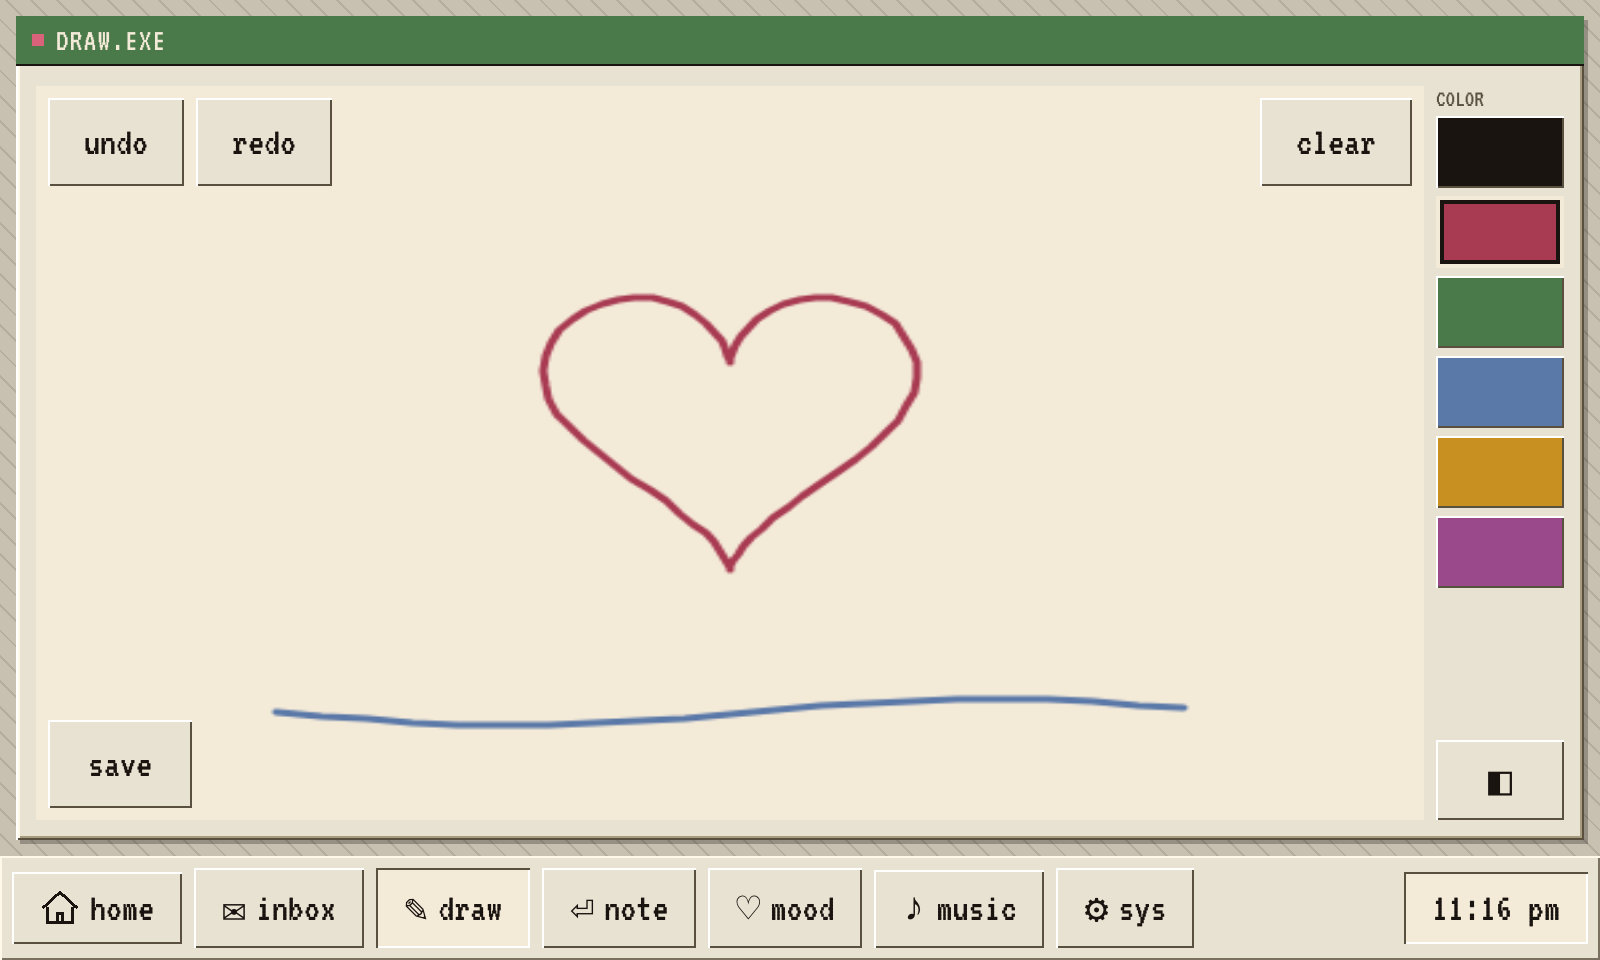
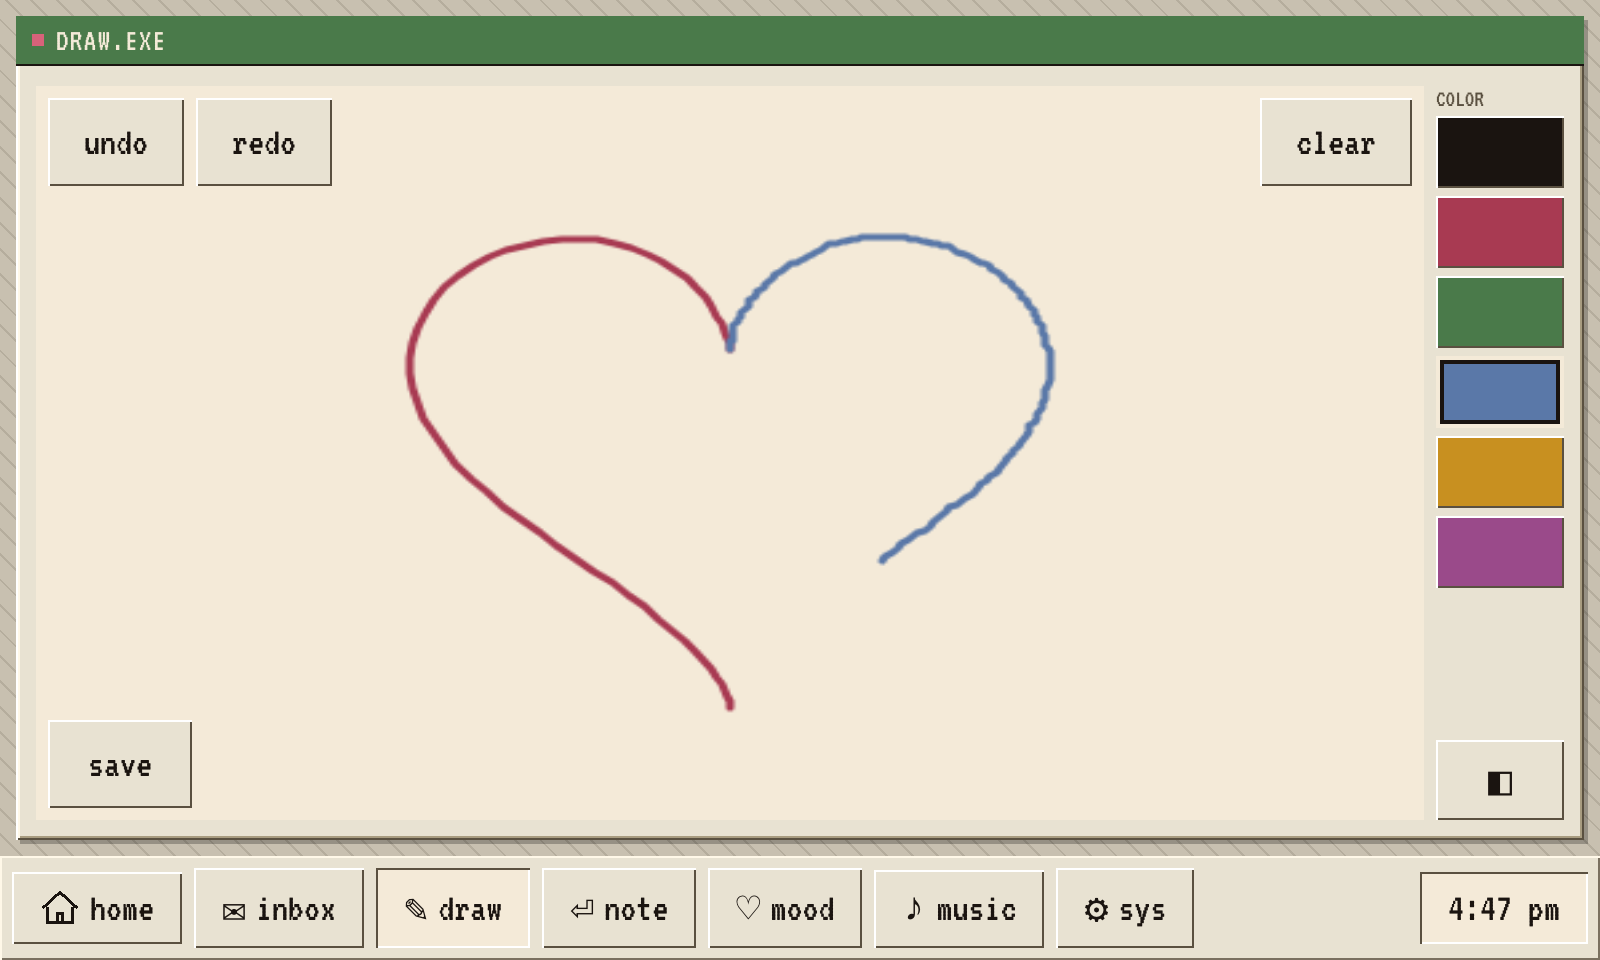
Set home to Montreal and regenerate home and draw screenshots
HOME is Lydia's box in Montreal (America/Toronto); Stanley stays in San
Francisco. The draw screenshot now shows a heart drawn by both of us, his half
in pink and hers in blue.

diff --git a/src/main.js b/src/main.js
@@ -106,7 +106,7 @@ const ASCII_DIGITS = {
 // Display names and the box's fixed home location. Edit for your own setup.
 const NAMES = { him: "stanley", her: "lydia" };
 const initial = (who) => `${NAMES[who][0].toUpperCase()}:`;
-const HOME = { lat: 40.7128, lon: -74.006, label: "new york", tz: "America/New_York" };
+const HOME = { lat: 45.5019, lon: -73.5674, label: "montreal", tz: "America/Toronto" };
 const AWAY_TZ = "America/Los_Angeles";
 
 // ── State ──
